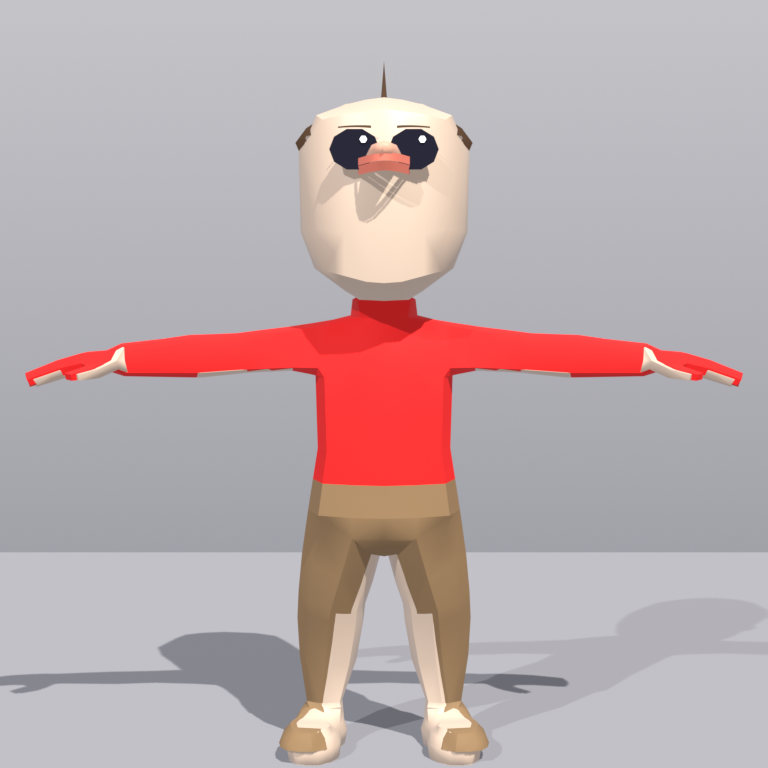
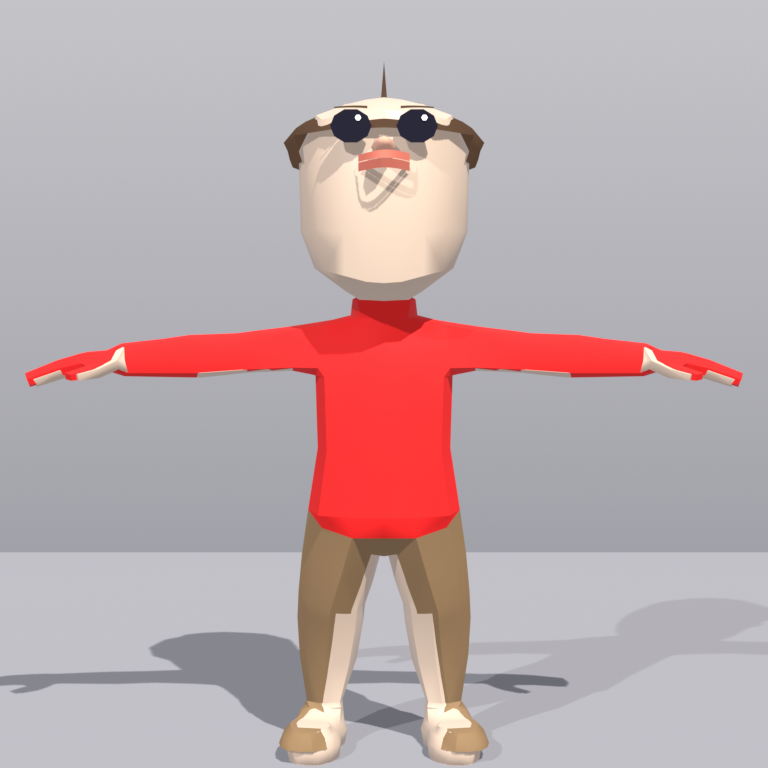
Comitting latest changes

Changed region(s): [[0.375, 0.125, 0.625, 0.3125], [0.4062, 0.625, 0.5938, 0.7188], [0.1875, 0.8125, 0.2188, 0.875]]

diff --git a/generators/humanoid/hair.py b/generators/humanoid/hair.py
@@ -297,7 +297,7 @@ _CAP_LEVELS = [
 _CAP_RING_N = 12   # sides per ring — 12 gives a smooth round silhouette
 
 
-def _build_cap(bm, head_z, head_r, h_scale=1.07, levels=None, head_r_horiz=None):
+def _build_cap(bm, head_z, head_r, h_scale=1.20, levels=None, head_r_horiz=None):
     """Build the shared domed cap from hairline to crown.
 
     Args:
@@ -329,7 +329,7 @@ def _build_cap(bm, head_z, head_r, h_scale=1.07, levels=None, head_r_horiz=None)
 
 def _build_buzzed(bm, head_z, head_r, head_r_horiz=None):
     """Skullcap hugging the head tightly — very short all over."""
-    rings = _build_cap(bm, head_z, head_r, h_scale=1.03, head_r_horiz=head_r_horiz)
+    rings = _build_cap(bm, head_z, head_r, h_scale=1.15, head_r_horiz=head_r_horiz)
     hl = rings[0]
     # Single unified row around the back 270° for seamless ear/nape coverage
     _panel_rows(bm, _back_half_verts(hl), [
@@ -341,7 +341,7 @@ def _build_buzzed(bm, head_z, head_r, head_r_horiz=None):
 # Cap levels for the short style.
 # Hairline starts at z_off=0.00 (equatorial = ear/temple level) so the cap
 # wraps fully around the head circumference.  Crown compressed to z_off=0.92
-# for a flat low-profile look.  h_scale=1.06 gives ~3 % clearance from the
+# for a flat low-profile look.  h_scale=1.20 gives ~3 % clearance from the
 # head surface using the actual horizontal radius (head_r_horiz).
 _SHORT_CAP_LEVELS = [
     (0.00, 0.97, 0.90),   # hairline — equatorial (ear/temple, full circumference)
@@ -360,7 +360,7 @@ def _build_short(bm, head_z, head_r, head_r_horiz=None):
     nape.  Short fringe clumps fill the front/forehead zone.
     """
     hr_h = head_r_horiz if head_r_horiz is not None else head_r
-    rings = _build_cap(bm, head_z, head_r, h_scale=1.06, levels=_SHORT_CAP_LEVELS,
+    rings = _build_cap(bm, head_z, head_r, h_scale=1.20, levels=_SHORT_CAP_LEVELS,
                        head_r_horiz=head_r_horiz)
     hl = rings[0]
 
@@ -419,7 +419,7 @@ def _build_spiky(bm, head_z, head_r, head_r_horiz=None):
 
     Face budget: cap ≈ 48 + back panel ≈ 24 + spikes 6 × 4 = 24 → ~96 total.
     """
-    rings = _build_cap(bm, head_z, head_r, h_scale=1.06, levels=_SPIKY_CAP_LEVELS,
+    rings = _build_cap(bm, head_z, head_r, h_scale=1.20, levels=_SPIKY_CAP_LEVELS,
                        head_r_horiz=head_r_horiz)
     hl = rings[0]
 
@@ -480,7 +480,7 @@ def _build_slicked(bm, head_z, head_r, head_r_horiz=None):
     Quiff: 5 clumps with negative z_tip so tips rise above the hairline.
     """
     hr_h = head_r_horiz if head_r_horiz is not None else head_r
-    rings = _build_cap(bm, head_z, head_r, h_scale=1.06, levels=_SHORT_CAP_LEVELS,
+    rings = _build_cap(bm, head_z, head_r, h_scale=1.20, levels=_SHORT_CAP_LEVELS,
                        head_r_horiz=head_r_horiz)
     hl = rings[0]
     hl_z = hl[0].co.z
@@ -508,7 +508,7 @@ def _build_slicked(bm, head_z, head_r, head_r_horiz=None):
 def _build_long(bm, head_z, head_r, head_r_horiz=None):
     """Long hair flowing past the shoulders: cap + wide back curtain + fringe."""
     hr_h = head_r_horiz if head_r_horiz is not None else head_r
-    rings = _build_cap(bm, head_z, head_r, h_scale=1.09, head_r_horiz=hr_h)
+    rings = _build_cap(bm, head_z, head_r, h_scale=1.22, head_r_horiz=hr_h)
     hl = rings[0]
     hl_z = hl[0].co.z
 
@@ -588,7 +588,7 @@ def _build_mohawk(bm, head_z, head_r, head_r_horiz=None):
 def _build_ponytail(bm, head_z, head_r, head_r_horiz=None):
     """Short front/sides with a gathered bundle hanging at the back."""
     hr_h = head_r_horiz if head_r_horiz is not None else head_r
-    rings = _build_cap(bm, head_z, head_r, h_scale=1.07, head_r_horiz=hr_h)
+    rings = _build_cap(bm, head_z, head_r, h_scale=1.20, head_r_horiz=hr_h)
     hl = rings[0]
     hl_z = hl[0].co.z
 

diff --git a/generators/humanoid/eyes.py b/generators/humanoid/eyes.py
@@ -40,9 +40,9 @@ def _eye_geometry(head_z, head_r, face_y, head_r_horiz=None):
                       Y, with a small forward nudge so they sit on the surface.
     """
     hr_h   = head_r_horiz if head_r_horiz is not None else head_r
-    eye_r  = hr_h * 0.22           # big expressive cartoon eyes
-    eye_z  = head_z - head_r * 0.30  # well below head centre, in the face zone
-    eye_x  = hr_h * 0.32           # lateral separation scales with head width
+    eye_r  = hr_h * 0.18           # expressive cartoon eyes, proportional to head
+    eye_z  = head_z + head_r * 0.15  # ABOVE head centre — chibi eyes sit high
+    eye_x  = hr_h * 0.36           # wide lateral separation
 
     if face_y is not None:
         # Place disc slightly forward of (in front of) the face surface
@@ -276,13 +276,13 @@ def create_nose(head_z, head_r, face_y=None, head_r_horiz=None, skin_tone=None):
 
     hr_h = head_r_horiz if head_r_horiz is not None else head_r
 
-    # head_z is now the centre of the head; nose sits between eyes and mouth
-    nz       = head_z - head_r * 0.42        # slightly higher for better visibility
+    # head_z is the centre of the full head; nose sits below centre
+    nz       = head_z - head_r * 0.25        # just below head centre
     # Face surface curves inward below the eyes, so we push the nose
     # out extra far to clear the mesh at this lower Z level.
-    base_y   = (face_y - hr_h * 0.08) if face_y is not None else -(hr_h * 0.62)
-    nose_r   = hr_h * 0.20                   # big cartoon nose — must read from front view
-    protrude = hr_h * 0.50                   # very prominent forward protrusion
+    base_y   = (face_y - hr_h * 0.06) if face_y is not None else -(hr_h * 0.62)
+    nose_r   = hr_h * 0.14                   # visible cartoon nose
+    protrude = hr_h * 0.40                   # prominent forward protrusion
     print(f"[nose] nz={nz:.4f}, base_y={base_y:.4f}, tip_y={base_y - protrude:.4f}, nose_r={nose_r:.4f}")
 
     # Build a half-sphere dome (8 segments, 3 latitude rings + tip)
@@ -402,10 +402,10 @@ def create_mouth(head_z, head_r, face_y=None, head_r_horiz=None, skin_tone=None)
 
     # Position: below nose, in the lower third of the head
     # head_z is the centre of the head; mouth sits well below centre
-    mz_centre = head_z - head_r * 0.62
+    mz_centre = head_z - head_r * 0.55
     # Face curves sharply inward at chin level — push mouth way forward
-    base_y    = (face_y - hr_h * 0.10) if face_y is not None else -(hr_h * 0.62)
-    protrude  = hr_h * 0.40            # very prominent — must clear face mesh
+    base_y    = (face_y - hr_h * 0.08) if face_y is not None else -(hr_h * 0.62)
+    protrude  = hr_h * 0.35            # prominent — must clear face mesh
     print(f"[mouth] mz={mz_centre:.4f}, base_y={base_y:.4f}, protrude={protrude:.4f}")
 
     # Sizing — big and visible, proportional to full head width
@@ -514,8 +514,8 @@ def create_mustache(head_z, head_r, face_y=None, head_r_horiz=None,
     color = tuple(mustache_color) if mustache_color else (0.12, 0.07, 0.04, 1.0)
 
     # Z band: between nose and mouth (head_z is now head centre)
-    mz_top = head_z - head_r * 0.55
-    mz_bot = head_z - head_r * 0.65
+    mz_top = head_z - head_r * 0.35
+    mz_bot = head_z - head_r * 0.48
     mh = mz_top - mz_bot
 
     base_y = (face_y - hr_h * 0.005) if face_y is not None else -(hr_h * 0.62)

diff --git a/generators/humanoid/template_mesh.py b/generators/humanoid/template_mesh.py
@@ -656,9 +656,9 @@ def create_body_from_template(cfg: dict):
         # ── face_y: face-surface Y at eye level ──────────────────────────
         # Sample vertices near the head centre (where eyes go), restricted
         # to the central X third, to find the face surface depth.
-        eye_level_z = head_z - head_r * 0.05  # slightly below centre
-        face_lo = eye_level_z - head_r * 0.25
-        face_hi = eye_level_z + head_r * 0.25
+        eye_level_z = head_z + head_r * 0.15  # eyes sit above centre on chibi
+        face_lo = eye_level_z - head_r * 0.30
+        face_hi = eye_level_z + head_r * 0.30
         face_ys = []
         head_ys_all = []
         for wco in head_candidate_verts:
@@ -854,13 +854,17 @@ def create_body_from_template(cfg: dict):
     # vertices beyond the torso X cap (i.e. arm/shoulder verts).
     # Ranges are deliberately generous — better to slightly over-cover than
     # leave skin showing through gaps.
+    # Clothing zones: z_lo, z_hi, include_arms
+    # IMPORTANT: tshirt bottom and pants top must NOT overlap at the hip
+    # or they blend into one solid block.  Leave a ~2cm skin gap at the waist.
+    _waist_gap = 0.02
     _CLOTHING_ZONES = {
-        "tshirt":     (_hip_z - 0.02,                        _chest_z + 0.05, True),
-        "longsleeve": (_hip_z - 0.02,                        _chest_z + 0.05, True),
-        "jacket":     (_hip_z - 0.04,                        _chest_z + 0.06, True),
-        "pants":      (foot_top - 0.02,                      _hip_z + cfg["torso_length"] * 0.25, False),
-        "shorts":     (foot_top + cfg["leg_length"] * 0.38,  _hip_z + cfg["torso_length"] * 0.25, False),
-        "armor":      (_hip_z - 0.02,                        _chest_z + 0.05, True),
+        "tshirt":     (_hip_z + _waist_gap,                  _chest_z + 0.05, True),
+        "longsleeve": (_hip_z + _waist_gap,                  _chest_z + 0.05, True),
+        "jacket":     (_hip_z - 0.02,                        _chest_z + 0.06, True),
+        "pants":      (foot_top - 0.02,                      _hip_z + cfg["torso_length"] * 0.10, False),
+        "shorts":     (foot_top + cfg["leg_length"] * 0.38,  _hip_z + cfg["torso_length"] * 0.10, False),
+        "armor":      (_hip_z + _waist_gap,                  _chest_z + 0.05, True),
         "robe":       (foot_top,                             _chest_z + 0.05, True),
     }
 
